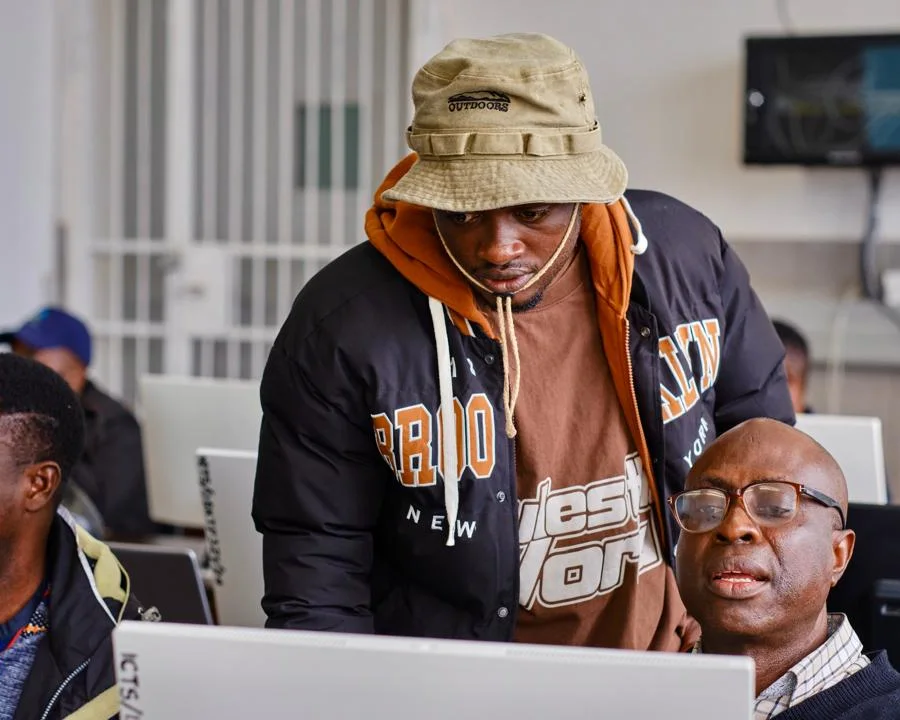
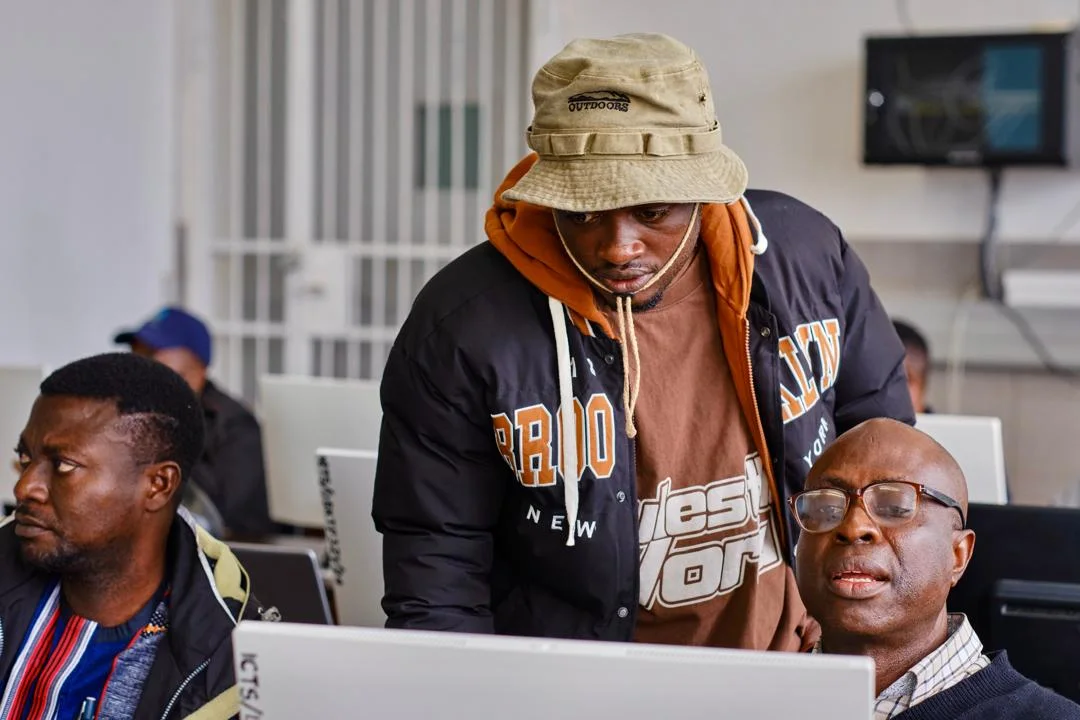
Full About photo, add SNAP and MODFLOW

diff --git a/src/pages/home.tsx b/src/pages/home.tsx
@@ -292,7 +292,7 @@ export default function Home() {
                 ["Remote Sensing", ["Image Processing", "Spectral Indices", "Time Series Analysis"]],
                 ["Database Management", ["PostGIS", "Spatial Database Design", "Geospatial Data Management"]],
                 ["Web GIS", ["React", "Leaflet", "D3.js", "Three.js", "ArcGIS Online"]],
-                ["Software", ["ArcGIS Pro", "QGIS", "Global Mapper", "Cloud based (GEE, SEPAL, Google Colab with Python)"]]].map(([k, v]) => (
+                ["Software", ["ArcGIS Pro", "QGIS", "Global Mapper", "SNAP", "MODFLOW", "Cloud based (GEE, SEPAL, Google Colab with Python)"]]].map(([k, v]) => (
                 <div key={k as string} className="tagrow"><dt>{k as string}</dt><dd><ul className="tags">{(v as string[]).map((t) => <li key={t}>{t}</li>)}</ul></dd></div>
               ))}
             </dl>
